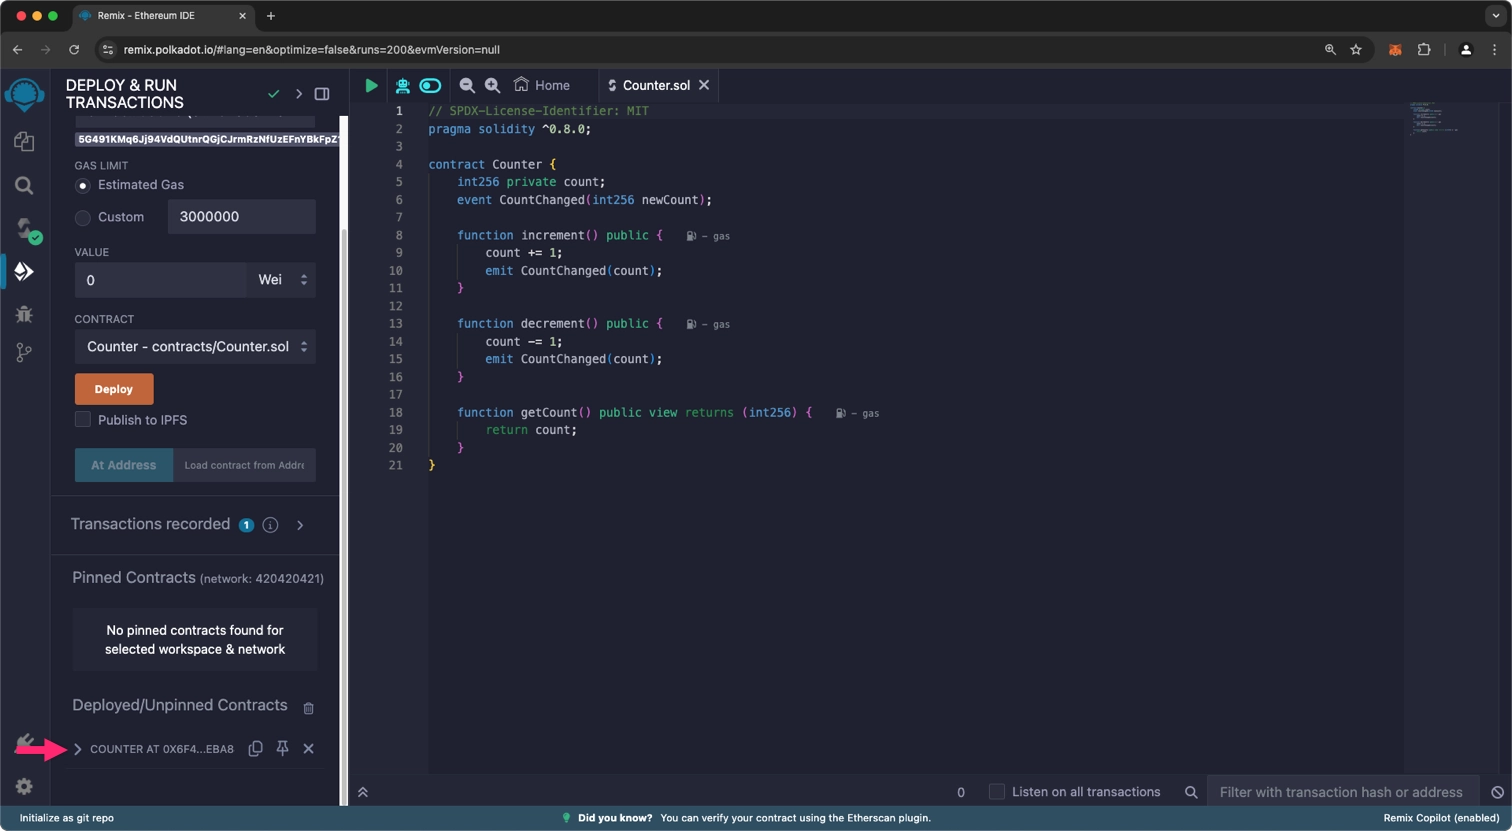
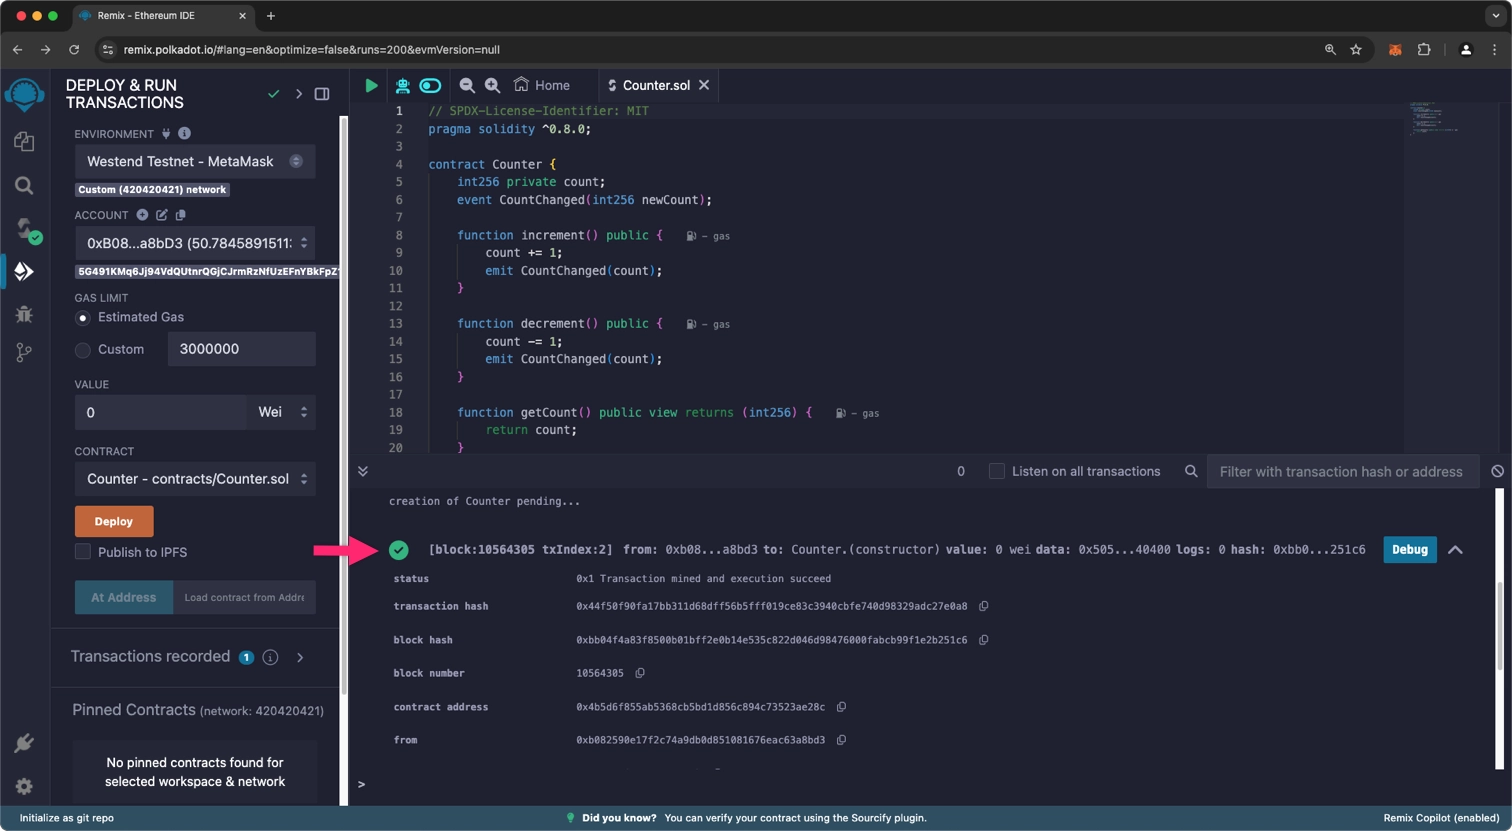
fix: adding deployment logging

diff --git a/develop/smart-contracts/evm-toolkit/dev-environments/remix.md b/develop/smart-contracts/evm-toolkit/dev-environments/remix.md
@@ -75,20 +75,24 @@ After compiling your contract, you can navigate to the **File Explorer** tab (fi
 
         ![](/images/develop/smart-contracts/evm-toolkit/dev-environments/remix/remix-7.webp)
 
+Once your contract is deployed successfully, you will see the following output in the REMIX terminal:
+
+![](/images/develop/smart-contracts/evm-toolkit/dev-environments/remix/remix-8.webp)
+
 ## Interacting with Contracts
 
 Once deployed, your contract appears in the **Deployed/Unpinned Contracts** section:
 
 1. Expand the contract to view available methods
 
-    ![](/images/develop/smart-contracts/evm-toolkit/dev-environments/remix/remix-8.webp)
+    ![](/images/develop/smart-contracts/evm-toolkit/dev-environments/remix/remix-9.webp)
 
     !!! tip
         Pin your frequently used contracts to the **Pinned Contracts** section for easy access.
 
 2. To interact with the contract, you can click on any of the exposed methods
 
-    ![](/images/develop/smart-contracts/evm-toolkit/dev-environments/remix/remix-9.webp)
+    ![](/images/develop/smart-contracts/evm-toolkit/dev-environments/remix/remix-10.webp)
 
     In this manner, you can interact with your deployed contract either by reading its state or by writing to it.
 
